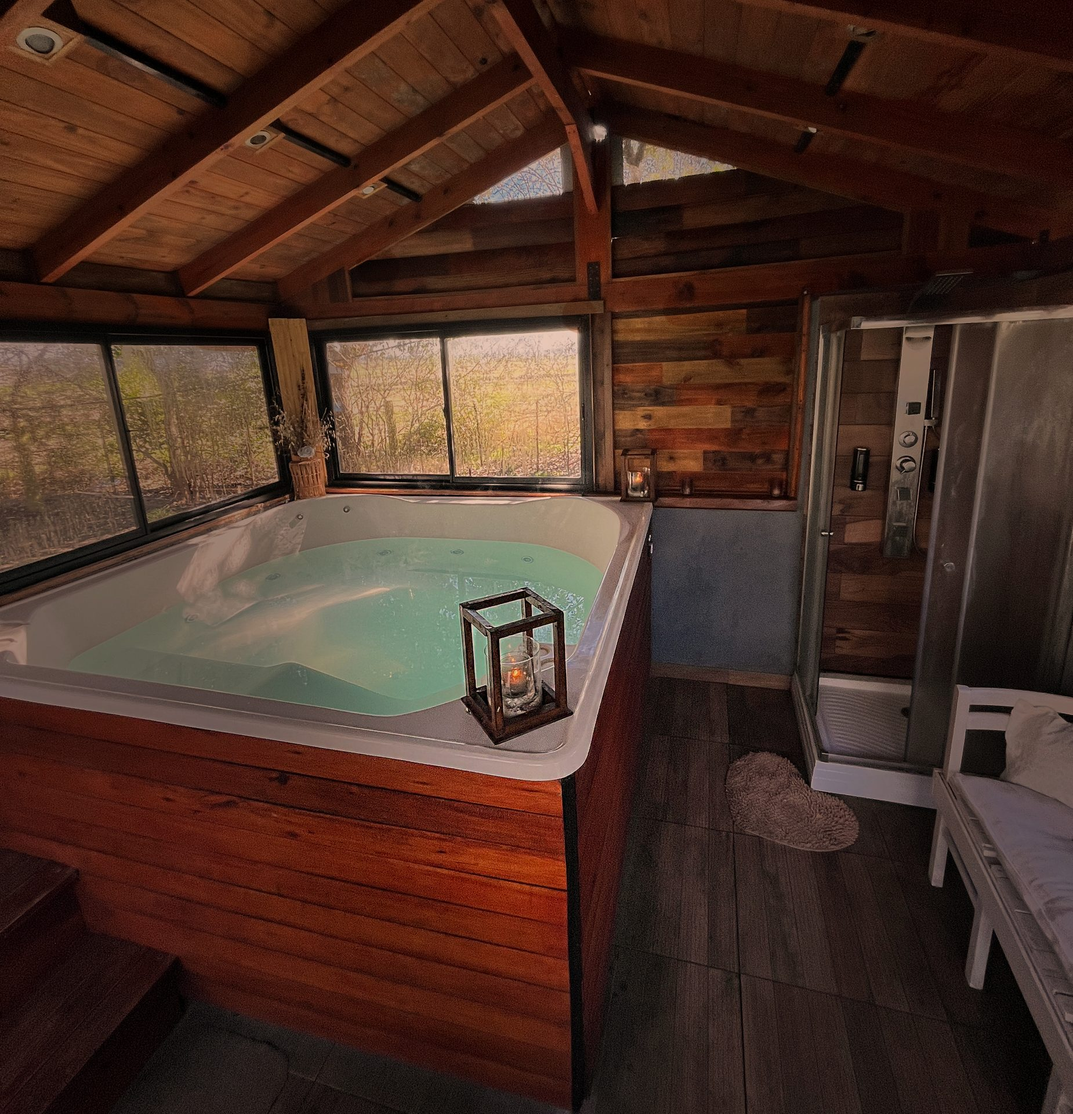
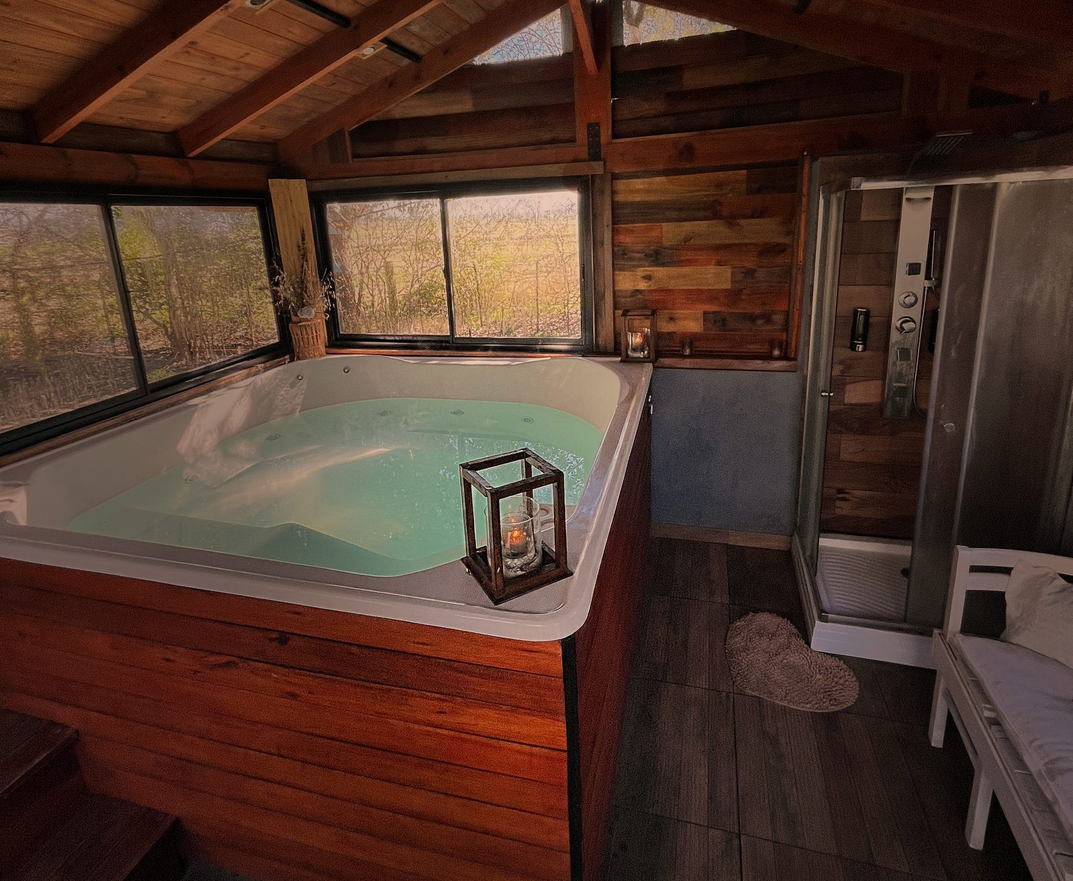
arreglos

diff --git a/web/index.html b/web/index.html
@@ -279,7 +279,7 @@
 </section>
 
 <!-- GALERIA -->
-<section id="galeria" data-screen-label="Galería" style="background:#fdf5ed;padding:clamp(64px,10vw,120px) clamp(20px,6vw,80px)">
+<!-- <section id="galeria" data-screen-label="Galería" style="background:#fdf5ed;padding:clamp(64px,10vw,120px) clamp(20px,6vw,80px)">
   <div style="max-width:1240px;margin:0 auto">
     <div data-reveal="true" style="text-align:center;max-width:600px;margin:0 auto 44px;opacity:0;transform:translateY(24px);transition:opacity .8s ease,transform .8s ease">
       <div style="font-size:11px;letter-spacing:.35em;text-transform:uppercase;color:#844713;margin-bottom:14px">Galería</div>
@@ -293,6 +293,22 @@
       </sc-for>
     </div>
     
+  </div>
+</section> -->
+<!-- GALERIA -->
+<section id="galeria" data-screen-label="Galería" style="background:#fdf5ed;padding:clamp(64px,10vw,120px) clamp(20px,6vw,80px)">
+  <div style="max-width:1240px;margin:0 auto">
+    <div data-reveal="true" style="text-align:center;max-width:600px;margin:0 auto 44px;opacity:0;transform:translateY(24px);transition:opacity .8s ease,transform .8s ease">
+      <div style="font-size:11px;letter-spacing:.35em;text-transform:uppercase;color:#844713;margin-bottom:14px">Galería</div>
+      <h2 style="font-family:'Bodoni Moda',serif;font-weight:400;font-size:clamp(26px,4vw,40px);color:#252c1a;margin:0">Un recorrido por el Spa de Campo.</h2>
+    </div>
+    <div style="display:grid;grid-template-columns:repeat(4,1fr);gap:14px">
+      <sc-for list="{{ galeria }}" as="g" hint-placeholder-count="12">
+        <div data-reveal="true" style="border-radius:2px;overflow:hidden;aspect-ratio:3/4;opacity:0;transform:translateY(20px);transition:opacity .7s ease,transform .7s ease">
+          <img src="fotos/{{ g.foto }}" alt="{{ g.caption }}" class="foto-zoom" style="width:100%;height:100%;object-fit:cover;display:block">
+        </div>
+      </sc-for>
+    </div>
   </div>
 </section>
 

diff --git a/docs/qa-informe.md b/docs/qa-informe.md
@@ -1,0 +1,212 @@
+# Informe de QA y revisión técnica — CRM Spa Cuatro Estaciones
+
+**Fecha:** 2026-07-27 · **Revisor:** QA/Django senior · **Estado del proyecto:** desarrollo (VPS, pre-producción)
+**Stack:** Django 5.1 · DRF · Postgres · Celery + Redis · Pillow · WhiteNoise · Docker Compose
+**Integraciones:** Meta WhatsApp Cloud API + Evolution API (dispatcher por proveedor) · bot n8n vía API REST con `X-Api-Key`
+
+> Alcance: mapeo del sistema, revisión de código/arquitectura y análisis de los flujos críticos
+> (reservas, WhatsApp, integración n8n, seguridad). **No se aplicaron fixes** salvo triviales;
+> el resto está propuesto para tu confirmación.
+
+---
+
+## 1. Resumen ejecutivo
+
+El CRM está **bien estructurado y más maduro que un MVP**: apps por dominio, settings dev/prod
+separados, secretos fuera del repo (`.env` ignorado, `.env.example` con placeholders), validación de
+cupo **atómica** con advisory locks (anti-sobreventa correcto), webhooks con verificación de firma, y
+una capa de proveedor (Evolution/Meta) desacoplada. La integración con n8n usa auth por API key con
+logging de cada request. La lógica de negocio (precios por día, seña, ventana de 24 hs, plantillas)
+vive en el backend, como corresponde.
+
+**Lo que falta para producción** se concentra en 3 frentes:
+1. **Cero tests automatizados** — el mayor riesgo de regresión dado todo lo que se movió.
+2. **Un par de gaps de seguridad/abuso** — webhook de Meta sin firma obligatoria y endpoint público de
+   reservas sin protección.
+3. **Correcciones de robustez** — `date.today()` con contenedor en UTC (día equivocado cerca de
+   medianoche) e idempotencia en la creación de reservas del bot.
+
+Ninguno es "crítico" en el sentido de RCE/leak de secretos, pero varios son **Altos** y hay que
+cerrarlos antes de abrir a producción real.
+
+**Veredicto:** apto para seguir en desarrollo/piloto; **no** apto para producción abierta hasta cerrar
+los ítems Alto y montar una base mínima de tests.
+
+---
+
+## 2. Bugs y defectos (por severidad)
+
+### 🔴 ALTO
+
+**A1 — Webhook de Meta acepta requests SIN firma si `meta_app_secret` está vacío**
+`apps/whatsapp/views.py` · `MetaWebhookView.post` (~línea 69)
+```python
+if app_secret and not webhook_meta.verify_signature(...):
+    return HttpResponse('Forbidden', status=403)
+```
+Si `meta_app_secret` no está configurado, la condición es falsa y **se procesa el payload sin validar**.
+Un atacante que conozca la URL (`/whatsapp/webhook/meta/`) podría **inyectar mensajes entrantes falsos**
+(crear contactos, disparar el bot, ensuciar el inbox). El webhook de Evolution sí rechaza en producción
+cuando no hay token — Meta quedó asimétrico.
+- **Repro:** con `meta_app_secret` vacío, `POST /whatsapp/webhook/meta/` con un payload de mensaje válido → se guarda.
+- **Fix propuesto:** rechazar (403) si `app_secret` no está configurado y `DEBUG=False` (igual que
+  `webhook.verify_webhook_token`). Nunca procesar Meta sin firma en producción.
+
+**A2 — Endpoint público de reservas sin auth, throttle ni captcha**
+`apps/sitio_publico/views.py` · `reservar()` (POST) → `services.crear_reserva(...)`
+Ruta pública `POST /sitio/reservar/<circuito_id>/`. Cualquiera puede crear reservas reales. Como las
+reservas **ocupan cupo**, permite **spam y agotamiento de disponibilidad** (DoS sobre la agenda: llenar
+todos los turnos con reservas falsas). No es DRF, así que **el throttle global no aplica**.
+- **Repro:** `curl -X POST .../sitio/reservar/1/ -d "telefono=...&turno_id=...&fecha=..."` en loop.
+- **Fix propuesto:** (a) si la página no se usa (el sitio real es el estático + bot), **deshabilitar la
+  ruta**; o (b) throttle por IP + captcha + estado inicial `pendiente_sena` con vencimiento corto; y
+  además capturar `KeyError/ValueError` (ver A3).
+
+**A3 — Sin tests automatizados (0 archivos de test)**
+No hay `tests.py`/`test_*.py` en ninguna app. Con la cantidad de lógica sensible (cupo, ventana 24 hs,
+estados de reserva, dispatcher de proveedor, dedup de webhooks) el riesgo de romper algo sin darse
+cuenta es alto.
+- **Fix propuesto:** suite mínima con pytest-django cubriendo: cupo/exclusividad y anti-sobreventa,
+  estados de reserva y confirmación, parser + firma de ambos webhooks, ventana 24 hs + plantillas,
+  dedup de entrantes, y los endpoints de n8n (auth, payloads malformados).
+
+### 🟠 MEDIO
+
+**M1 — `date.today()` en vez de `timezone.localdate()` (día equivocado en UTC)**
+`apps/dashboard/views.py:41,47,59` · `apps/turnero/views_ui.py:29,94,114` · `apps/turnero/views.py:42`
+· `apps/circuitos/views.py:20` · `apps/sitio_publico/views.py:11`
+El contenedor corre en **UTC** (el Dockerfile no setea TZ) y `date.today()` usa la hora del SO, no la
+`TIME_ZONE` de Django. Entre ~21:00 y 24:00 de Argentina (00:00–03:00 UTC) el "hoy" salta al día
+siguiente: la **agenda del día, el default de disponibilidad y el "es_hoy" del dashboard** muestran la
+fecha equivocada.
+- **Fix propuesto (bajo riesgo):** reemplazar `date.today()` → `timezone.localdate()` en esas vistas.
+  (El core de reservas ya usa `timezone.localdate()`, así que es consistencia.)
+
+**M2 — Sin idempotencia en la creación de reservas del bot**
+`apps/reservas/views.py` · `ReservaBotCrearView` / `services.crear_reserva`
+Si n8n reintenta `POST /reservas/bot/` (timeout, retry), se crea una **reserva duplicada**. En modo
+exclusivo el lock evita la segunda (1 por turno), pero en modo por-circuito no. No hay clave idempotente.
+- **Fix propuesto:** aceptar un header/campo `idempotency_key` (o `external_id` del bot) y hacer
+  `get_or_create`; o dedup por (contacto, fecha, turno, circuito) en una ventana corta.
+
+**M3 — `reservar()` público no maneja inputs faltantes → 500**
+`apps/sitio_publico/views.py` · usa `request.POST['telefono']`, `['turno_id']`, `['fecha']` dentro de un
+`try` que **solo** captura `ReservaError`. Un POST sin esos campos lanza `KeyError`/`ValueError` → 500.
+- **Fix propuesto:** validar/parsing con manejo de error (o un Form) y devolver 400 con mensaje.
+
+**M4 — `comprobante_base64` sin límite de tamaño**
+`apps/reservas/views.py` · `ReservaBotCrearView` decodifica el base64 sin cap. Un payload enorme puede
+inflar memoria. Mitigado porque está detrás de `X-Api-Key`, pero conviene un límite (p. ej. 8–10 MB),
+como ya tiene `enviar_media` (16 MB).
+
+**M5 — Race en el contador `ApiKey.total_usos`**
+`apps/integraciones/authentication.py`
+```python
+ApiKey.objects.filter(pk=...).update(total_usos=api_key.total_usos + 1)
+```
+Read-then-write: bajo requests concurrentes subcuenta. Es solo un contador, pero el fix es trivial:
+`total_usos=F('total_usos') + 1`.
+
+### 🟡 BAJO
+
+- **B1 — API key en texto plano.** `ApiKey.key` es un UUID guardado sin hashear; si se filtra la DB, se
+  filtran las keys. Aceptable para uso interno; ideal hashear (o al menos rotar fácil, que ya se puede).
+- **B2 — `WebhookLog` / `LogEnvioWhatsApp` sin rotación.** Se escribe una fila por request/mensaje; sin
+  limpieza la tabla crece indefinidamente. Sumar un comando/cron de retención (p. ej. 90 días).
+- **B3 — `request.body` en `finalize_response`** puede venir consumido tras el parse de DRF (queda `''`
+  por el `try/except`), así que a veces el log no captura el body. Menor.
+
+---
+
+## 3. Riesgos de seguridad (resumen)
+
+| # | Riesgo | Sev | Estado |
+|---|---|---|---|
+| A1 | Webhook Meta sin firma obligatoria si falta `app_secret` | Alto | **Abrir fix** |
+| A2 | Reservas públicas sin auth/throttle/captcha (spam/DoS de cupo) | Alto | **Abrir fix** |
+| M4 | `comprobante_base64` sin límite de tamaño | Medio | Proponer |
+| B1 | API key sin hashear | Bajo | Opcional |
+| — | SSL/HTTPS del CRM | — | Verificar certbot en nginx (mencionado antes) |
+
+**Lo que está bien:** `SECRET_KEY` protegida en prod (falla si es la de dev), `DEBUG=False` en prod,
+`.env` fuera del repo, cookies `Secure` + HSTS + `SECURE_PROXY_SSL_HEADER`, auth por API key en todos los
+endpoints de n8n, `/media/` servido con `login_required`, verificación de firma del webhook Evolution y
+del handshake GET de Meta, y CSRF no aplica a los APIView (sin SessionAuth) — correcto.
+
+---
+
+## 4. Mejoras de UX para el dueño del spa
+
+- **Agenda con navegación por día** y respetando la zona horaria (ver M1) — hoy el default puede
+  mostrar el día equivocado de noche.
+- **Aviso de ventana de 24 hs por conversación en el inbox** (ya implementado para Meta) — extenderlo a
+  un indicador claro de "podés/no podés escribir libre".
+- **Creación de usuarios con contraseña** — ya corregido en esta ronda.
+- **Confirmación visual al aprobar transferencias** y al enviar plantillas — ya hay mensajes; sumar
+  estado visible de la plantilla (PENDING/APPROVED) en el listado (ya está la columna).
+- **Vista de "archivos del contacto"** — ya existe; sumar filtro por tipo (foto/audio/doc) sería útil.
+- **Feedback de errores de envío** — ahora el inbox/n8n ya muestran el motivo real de Meta (mejorado en
+  esta ronda).
+
+---
+
+## 5. Mejoras técnicas / arquitectura
+
+- **Tests + CI:** pytest-django con fixtures/factories; correr en CI antes de cada deploy. Es lo #1.
+- **Idempotencia:** clave idempotente en reservas del bot (M2) y, en general, en operaciones que n8n
+  puede reintentar.
+- **Helper de fecha local:** un único `hoy_local()` = `timezone.localdate()` y prohibir `date.today()`
+  (regla de lint) para no repetir M1.
+- **Rate limiting en vistas no-DRF** (las de `sitio_publico`) — el throttle de DRF no las cubre.
+- **Retención de logs** (`WebhookLog`, `LogEnvioWhatsApp`, `django_celery_results`): comando de limpieza
+  programado con Celery beat.
+- **Observabilidad:** alertas cuando el `forward_to_n8n` agota reintentos, cuando Meta devuelve errores
+  recurrentes, o cuando Celery/worker está caído. Hoy queda en logs, sin alerta.
+- **Backups de Postgres** automatizados (no vi nada) — imprescindible para producción.
+- **TZ del contenedor:** setear `TZ=America/Argentina/Buenos_Aires` en el compose/Dockerfile ayuda a que
+  logs y `date.today()` residuales sean coherentes (además del fix M1).
+
+---
+
+## 6. Checklist para "apto para producción"
+
+**Bloqueantes (Alto):**
+- [ ] A1 — Webhook Meta: exigir firma en producción (rechazar si falta `app_secret`).
+- [ ] A2 — Reservas públicas: proteger (throttle+captcha) o deshabilitar la ruta si no se usa.
+- [ ] A3 — Suite de tests mínima (cupo, webhooks, reservas, plantillas, endpoints n8n).
+
+**Importantes (Medio):**
+- [ ] M1 — `date.today()` → `timezone.localdate()` (+ `TZ` en el contenedor).
+- [ ] M2 — Idempotencia en `/reservas/bot/`.
+- [ ] M3 — Manejo de inputs faltantes en `reservar()` público (evitar 500).
+- [ ] M4 — Límite de tamaño en `comprobante_base64`.
+- [ ] M5 — `F('total_usos') + 1`.
+
+**Infra / operación:**
+- [ ] HTTPS con certificado válido en nginx (certbot) para `crm.spacuatroestaciones.com`.
+- [ ] Backups automáticos de Postgres + prueba de restore.
+- [ ] Retención/rotación de logs (WebhookLog, LogEnvioWhatsApp, celery results).
+- [ ] Monitoreo/alertas (Celery vivo, errores de Meta, reintentos agotados).
+- [ ] Confirmar `DEBUG=False`, `ALLOWED_HOSTS` y `CSRF_TRUSTED_ORIGINS` reales en el `.env` de prod (ok en código).
+
+**Ya resuelto en esta ronda:**
+- [x] Contraseña al crear usuarios (para dar acceso a revisores).
+- [x] Error real de Meta expuesto (en vez de "400 Bad Request").
+- [x] Dedup de mensajes entrantes en `/conversaciones/<tel>/mensajes/`.
+- [x] Rechazo de envío sin texto ni media (`mensaje_vacio`).
+
+---
+
+## Anexo — Mapa del sistema (Fase 1)
+
+- **apps:** `contactos`, `circuitos`, `turnero`, `reservas`, `whatsapp`, `automations`, `integraciones`,
+  `configuracion`, `dashboard`, `sitio_publico`, `campanas`, `vouchers`, `tareas`, `usuarios`.
+- **WhatsApp:** credenciales en `ConfiguracionWhatsApp` (DB, singleton) con fallback a settings/env;
+  `sender.py` = dispatcher → `sender_evolution.py` / `sender_meta.py`; webhooks entrantes en
+  `/whatsapp/webhook/evolution/` (header `apikey`) y `/whatsapp/webhook/meta/` (GET challenge + POST
+  firma `X-Hub-Signature-256`).
+- **n8n ↔ CRM:** API REST bajo `/api/v1/...` y `/whatsapp/api/...`, auth `X-Api-Key`
+  (`ApiKeyAuthentication` + `HasApiKey`), cada request logueada en `WebhookLog`. Contrato en
+  `docs/api-n8n.md`; flujo de reservas en `docs/flujo-bot-reservas.md`.
+- **Reservas:** `services.crear_reserva` con `pg_advisory_xact_lock` por slot (anti-sobreventa),
+  `Reserva.clean()` valida mín/máx y exclusividad; estados y ocupación de cupo bien modelados.
